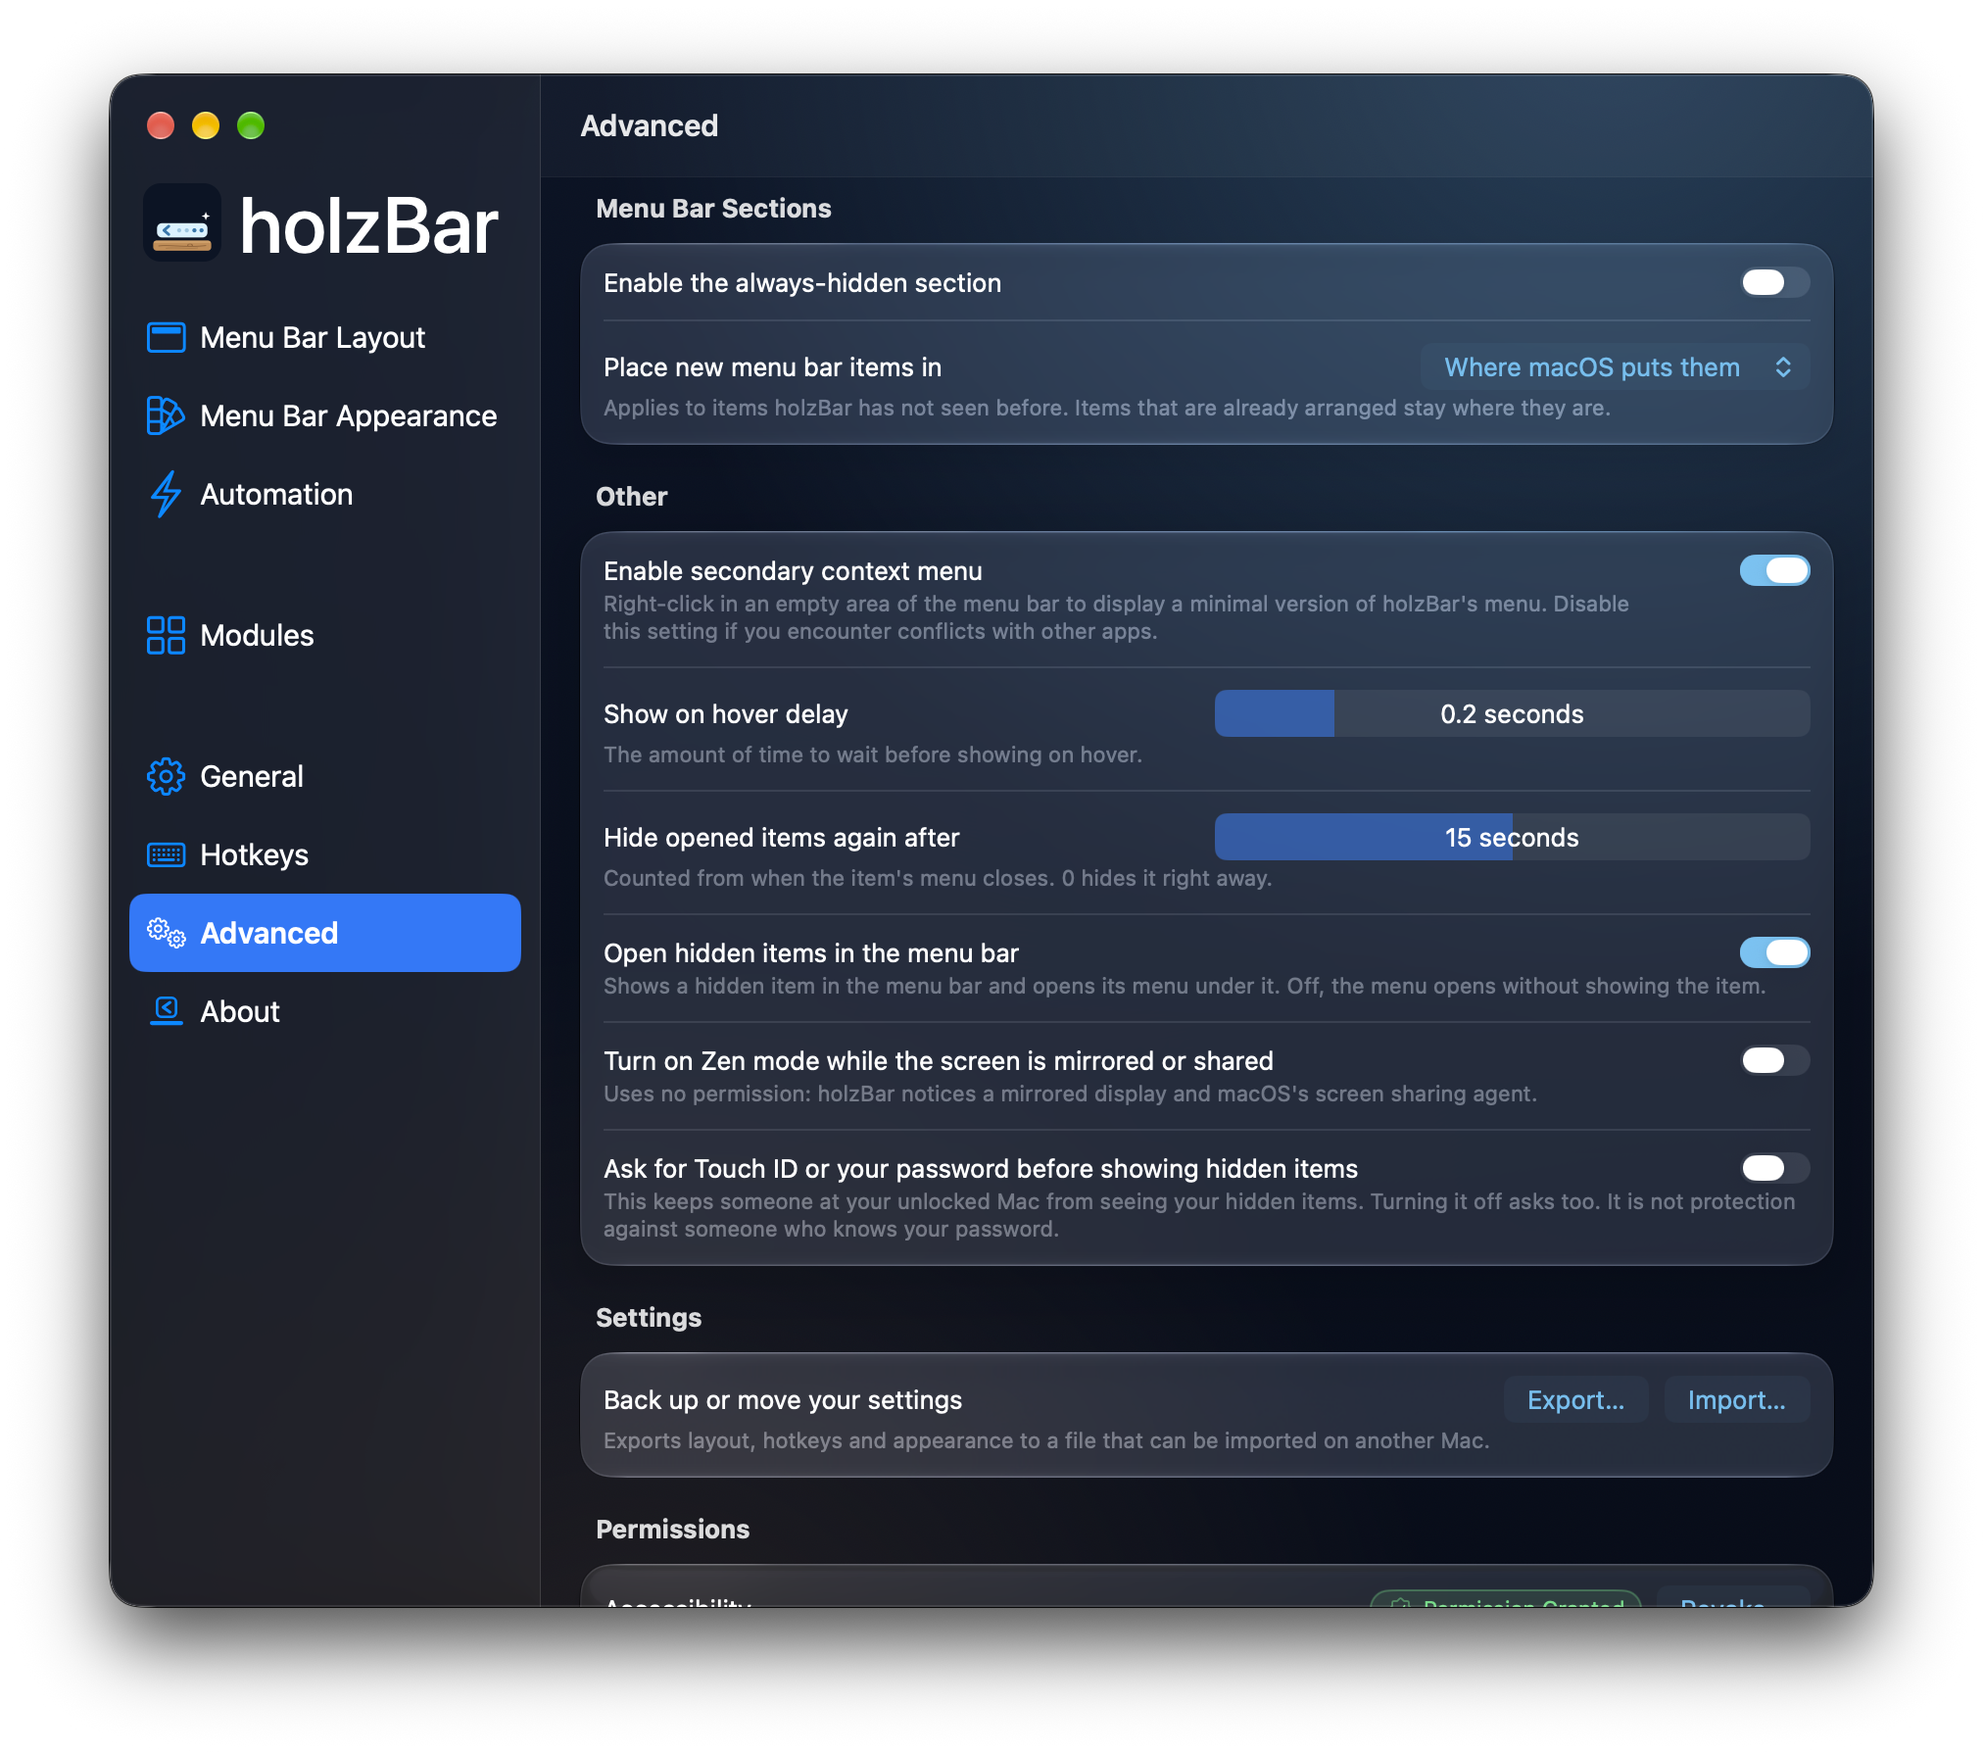
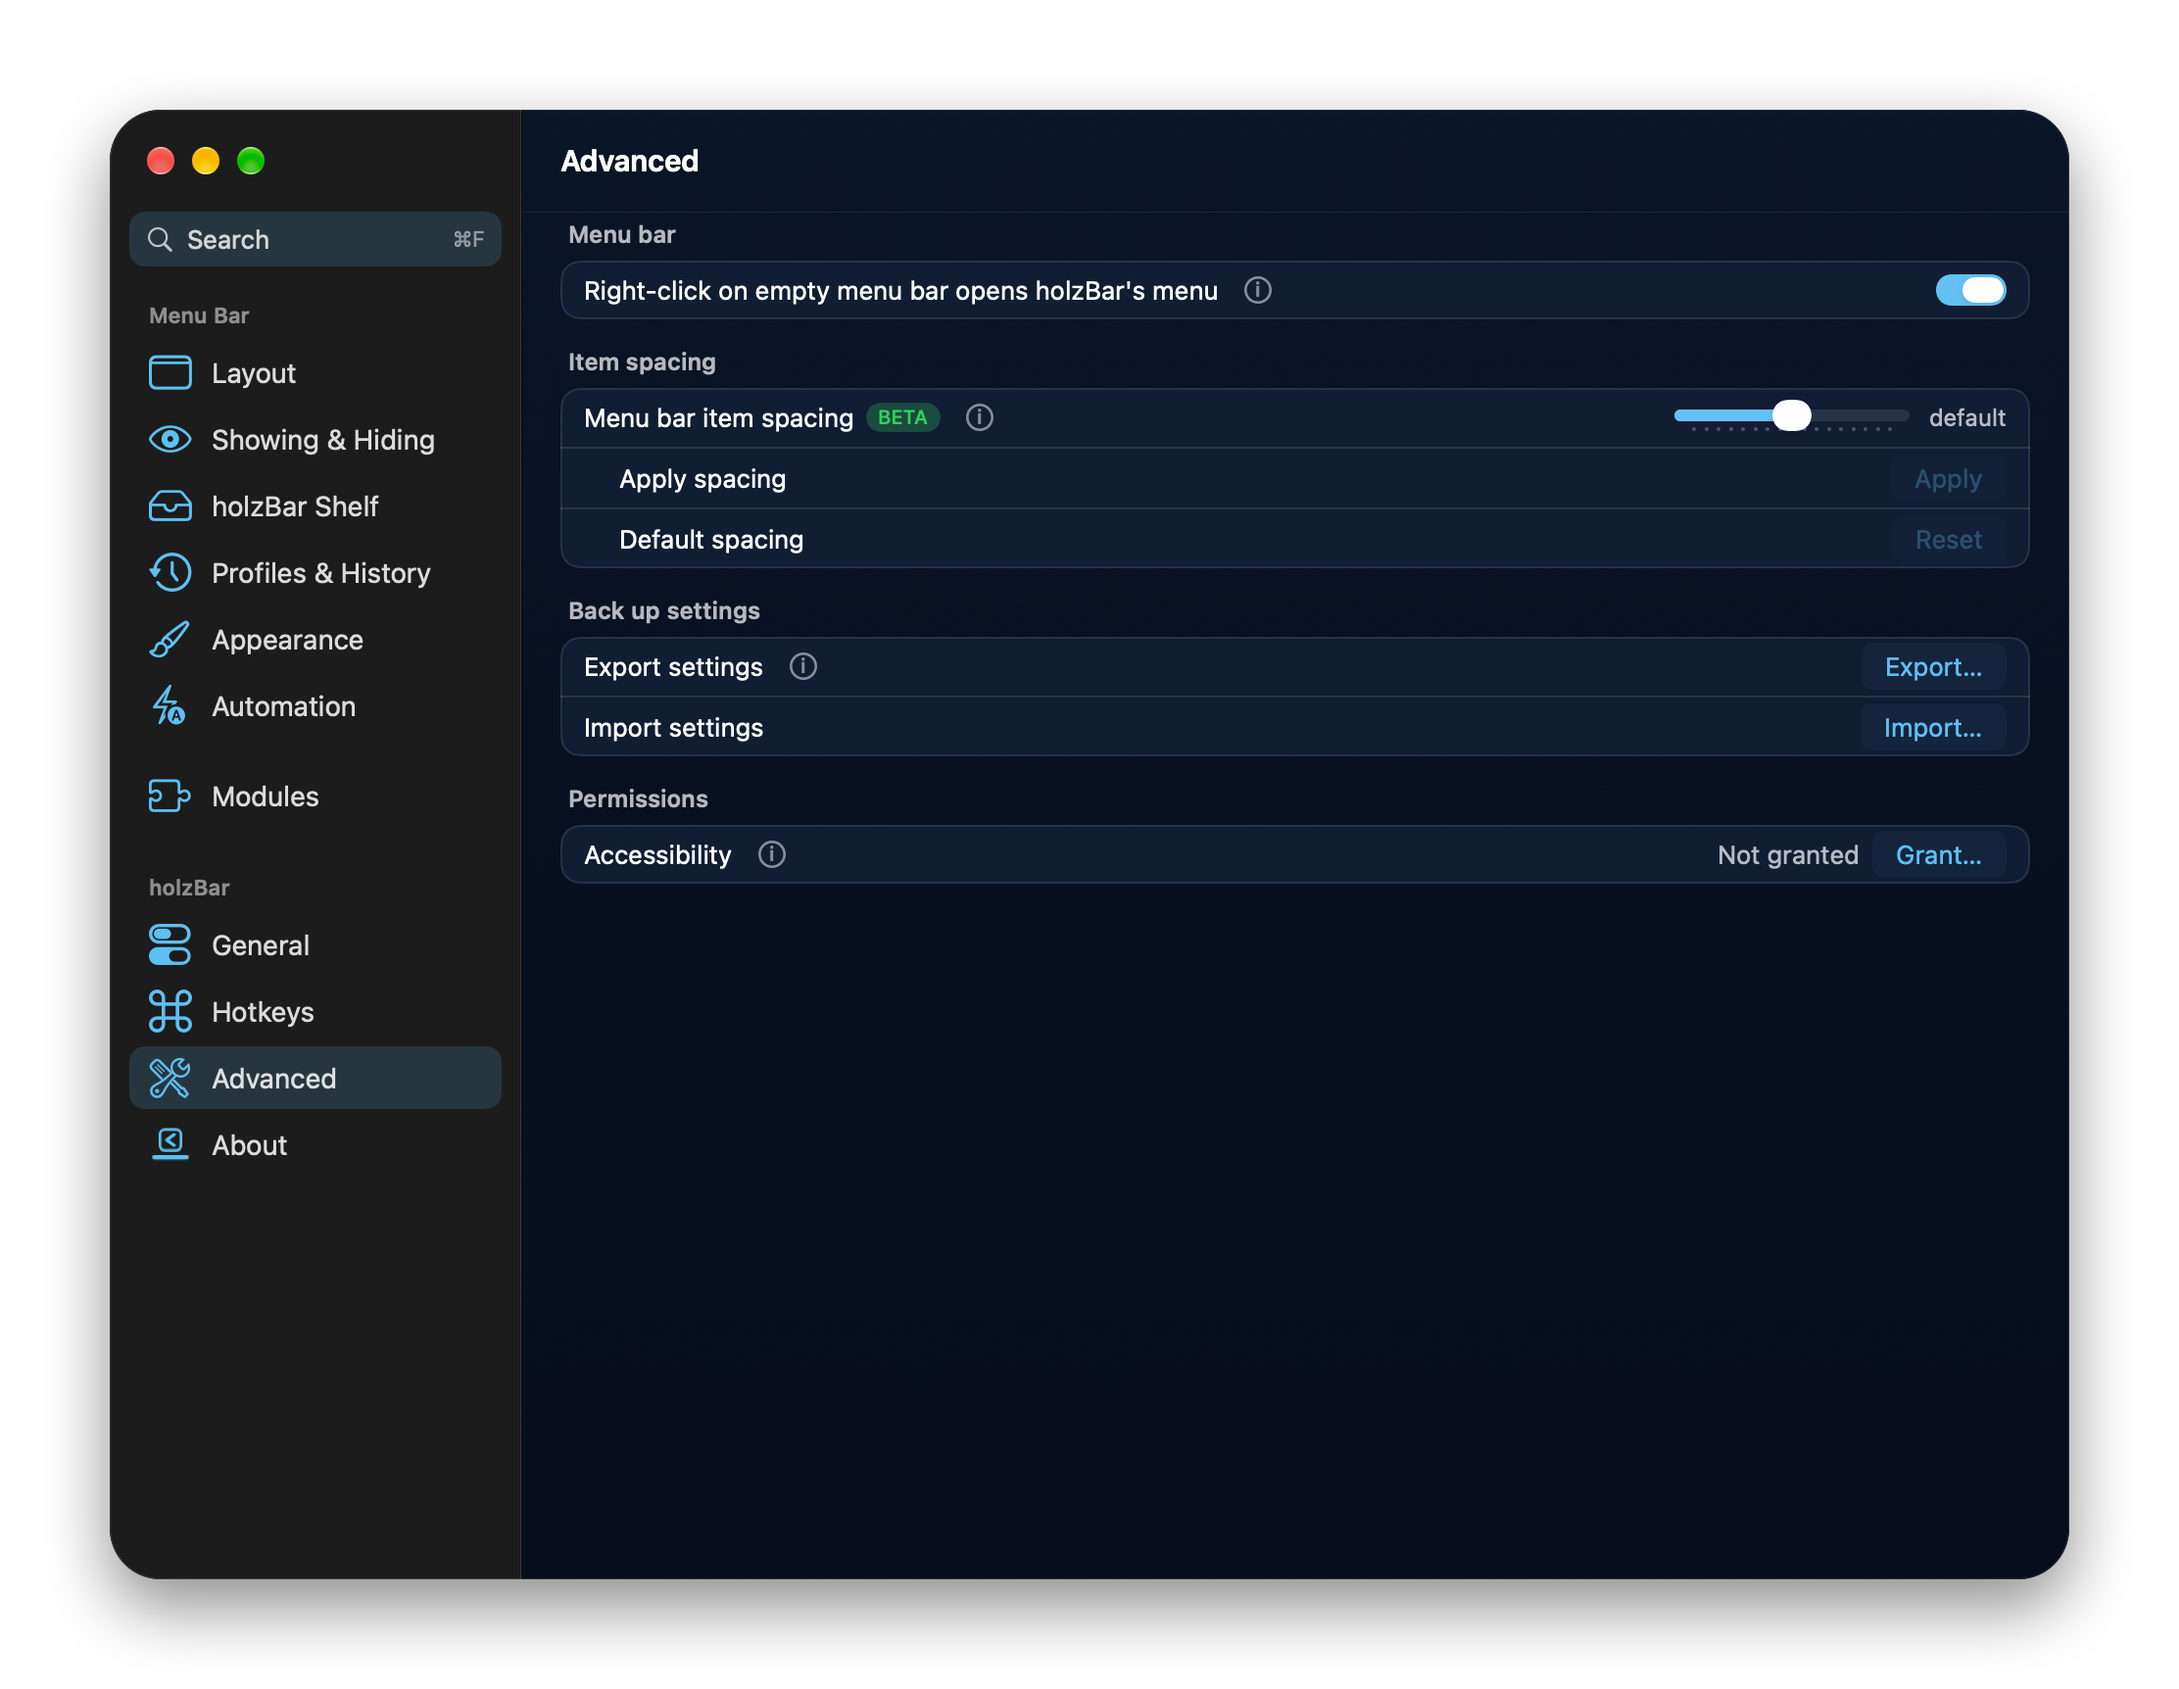
docs: new screenshots of the redesigned settings and hub
General, Showing & Hiding, Appearance, Hotkeys, Advanced, Automation,
Modules and Profiles & History as they look since 1.1.0, and the Display
controls module in the island hub. The pictures of panes that no longer
exist (General showing and rehiding, Layout further down) and the old
Display tab are gone; captions and alt texts describe what is shown.

Claude-Session: https://claude.ai/code/session_01LwGZpaAAVUWcNxkuCJHceB

diff --git a/docs/features.md b/docs/features.md
@@ -365,7 +365,7 @@ Screenshots of holzBar in dark mode.
 <td width="50%" valign="top"><b>Notch hub, Timers — presets, a typed length, a countdown or a stopwatch</b><br><img src="../Resources/Screenshots/hub-timers.jpg" alt="The Timers tab of the notch hub with the presets 1, 5, 10 and 25 minutes and 1 hour, the Length, Until and Stopwatch choices and a label field"></td>
 </tr>
 <tr>
-<td width="50%" valign="top"><b>Notch hub, Display — brightness and volume</b><br><img src="../Resources/Screenshots/hub-display.jpg" alt="The Display tab of the notch hub: a brightness slider for the built-in display, a display macOS cannot change from here, and the volume slider of the speakers"></td>
+<td width="50%" valign="top"><b>Notch hub, Display — brightness and volume</b><br><img src="../Resources/Screenshots/hub-display.png" alt="The Display controls module in the notch hub: a brightness slider for the built-in display and the volume of the Mac's speakers, with the round module buttons below"></td>
 <td width="50%" valign="top"><b>Modules — the notch hub, Timers, Calendar and Live activities</b><br><img src="../Resources/Screenshots/settings-modules-notch.jpg" alt="holzBar settings, Modules pane: the Notch hub with Open on hover, Show the hub on and a hotkey, Timers with a finish sound, Calendar with one switch per calendar, and Live activities"></td>
 </tr>
 <tr>
@@ -381,13 +381,12 @@ Screenshots of holzBar in dark mode.
 ### Menu bar and settings
 
 
-<p align="center"><img src="../Resources/Screenshots/settings-general.png" alt="holzBar settings, General pane: Launch at login, the menu bar icon choices and the holzBar Shelf with its style" width="760"></p>
+<p align="center"><img src="../Resources/Screenshots/settings-general.png" alt="holzBar settings, General pane: Launch at login, What's New after an update, the menu bar icon styles, the number of hidden items and the dot for the microphone or camera" width="760"></p>
 
 <p align="center"><img src="../Resources/Screenshots/settings-general-shelf.png" alt="holzBar settings, General pane, the holzBar Shelf: style, location, layout, find items by typing, applications that are not running, rearranging by dragging and the displays it is used on" width="760"></p>
 
-<p align="center"><img src="../Resources/Screenshots/settings-general-showing.png" alt="holzBar settings, General pane: items covered by the notch, showing hidden items on click, hover or scroll, the animation, opening Notification Center from the clock and per-display behaviour" width="760"></p>
+<p align="center"><img src="../Resources/Screenshots/settings-showing-hiding.png" alt="holzBar settings, Showing & Hiding pane: show on click, hover or scroll, open hidden items in the menu bar, automatic rehide with the Smart strategy, Zen mode, Touch ID and the animation styles Instant, Smooth and Fade" width="760"></p>
 
-<p align="center"><img src="../Resources/Screenshots/settings-general-rehiding.png" alt="holzBar settings, General pane: per-display behaviour, automatic rehide with the Smart strategy, menu bar item spacing and the camera and microphone indicator dot" width="760"></p>
 
 <table>
 <tr>
@@ -403,18 +402,18 @@ Screenshots of holzBar in dark mode.
 <table>
 <tr>
 <td width="50%" valign="top"><b>Layout</b> — drag items into sections, with profiles, groups and spacers<br><img src="../Resources/Screenshots/settings-layout.png" alt="holzBar settings, Layout pane: the Visible and Hidden sections with the menu bar items, Tidy Up, Usage Suggestions and the layout profiles"></td>
-<td width="50%" valign="top"><b>Appearance</b> — moods, tint, shadow, border, shapes, a black bar and rounded screen corners<br><img src="../Resources/Screenshots/settings-appearance.png" alt="holzBar settings, Appearance pane: Moods, dynamic appearance, Tint, Shadow, Border, Shape Kind, Black menu bar and Round the screen corners"></td>
+<td width="50%" valign="top"><b>Appearance</b> — moods, tint, shadow, border, shapes, a black bar and rounded screen corners<br><img src="../Resources/Screenshots/settings-appearance.png" alt="holzBar settings, Appearance pane: moods, the menu bar shape, light and dark, tint, shadow and border"></td>
 </tr>
 <tr>
-<td width="50%" valign="top"><b>Hotkeys</b> — a shortcut for every frequent action, profile and item<br><img src="../Resources/Screenshots/settings-hotkeys.png" alt="holzBar settings, Hotkeys pane: hotkeys for the hidden section, the search, opening an item by letter, the layout profile, the holzBar Shelf, app menus, auto-rehide and Zen mode, each with Record Hotkey"></td>
-<td width="50%" valign="top"><b>Advanced</b> — new items, delays, Zen mode, Touch ID lock and settings backup<br><img src="../Resources/Screenshots/settings-advanced.png" alt="holzBar settings, Advanced pane: where new items go, the secondary context menu, the hover delay, hiding opened items again after 15 seconds, opening hidden items in the menu bar, Zen mode while the screen is shared, Touch ID or password before showing hidden items, settings Export… and Import…, and the permissions"></td>
+<td width="50%" valign="top"><b>Hotkeys</b> — a shortcut for every frequent action, profile and item<br><img src="../Resources/Screenshots/settings-hotkeys.png" alt="holzBar settings, Hotkeys pane: hotkeys to show items, find items, single items, profiles, modes and the Notch hub"></td>
+<td width="50%" valign="top"><b>Advanced</b> — right-click, item spacing <sub>BETA</sub>, settings backup and permissions<br><img src="../Resources/Screenshots/settings-advanced.png" alt="holzBar settings, Advanced pane: right-click on the empty menu bar, menu bar item spacing, back up settings and permissions"></td>
 </tr>
 <tr>
-<td width="50%" valign="top"><b>Layout, further down</b> — usage suggestions, profiles, groups, spacers and the layout history<br><img src="../Resources/Screenshots/settings-layout-more.png" alt="holzBar settings, Layout pane further down: Usage Suggestions, the home profile with Apply, Bind, Import Profile and Save Current Layout, Groups with New Group, Spacers, and Layout History with 8 snapshots"></td>
-<td width="50%" valign="top"><b>Automation</b> — rules, scripts and profile hooks<br><img src="../Resources/Screenshots/settings-automation.png" alt="holzBar settings, Automation pane: the Scripts folder with Choose Folder and Open Scripts Folder, profile hooks, and Add Rule"></td>
+<td width="50%" valign="top"><b>Profiles &amp; History</b> — profiles, groups, spacers and the layout history<br><img src="../Resources/Screenshots/settings-profiles-history.png" alt="holzBar settings, Profiles & History pane: profiles, groups, spacers and the layout history with its snapshots"></td>
+<td width="50%" valign="top"><b>Automation</b> — rules, scripts and profile hooks<br><img src="../Resources/Screenshots/settings-automation.png" alt="holzBar settings, Automation pane: rules, the Scripts folder, the scripts of the rules, profile hooks and where rules are stored"></td>
 </tr>
 <tr>
-<td width="50%" valign="top"><b>Modules</b> — widgets and dragging in the menu bar, each with its own switch<br><img src="../Resources/Screenshots/settings-modules.png" alt="holzBar settings, Modules pane: Widgets switched on with a CPU load and a free disk space widget, and Drag in the Menu Bar switched off"></td>
+<td width="50%" valign="top"><b>Modules</b> — every module with its own switch<br><img src="../Resources/Screenshots/settings-modules.png" alt="holzBar settings, Modules pane: Widgets, Drag in the Menu Bar, Apple Items and Notification Center from the clock, then the Notch hub and its eight modules, each with its own switch"></td>
 <td width="50%" valign="top"><b>Permissions</b> — what holzBar has, with Revoke<br><img src="../Resources/Screenshots/settings-advanced-permissions.png" alt="holzBar settings, Advanced pane, the end: Back up or move your settings with Export and Import, and the permissions Accessibility and Screen Recording, each shown as Permission Granted with a Revoke button"></td>
 </tr>
 <tr>

diff --git a/README.md b/README.md
@@ -43,7 +43,7 @@ If you looked for an Ice fork that runs on macOS 27, or a free Bartender alterna
 <table>
 <tr>
 <td width="50%" valign="top"><b>Layout</b>: drag items into sections<br><img src="Resources/Screenshots/settings-layout.png" alt="holzBar settings, Layout: drag menu bar icons into the visible, hidden and always-hidden sections"></td>
-<td width="50%" valign="top"><b>Appearance</b>: moods, tint, border, shapes, a black bar<br><img src="Resources/Screenshots/settings-appearance.png" alt="holzBar settings, Appearance: tint, shadow, border, shapes and rounded screen corners"></td>
+<td width="50%" valign="top"><b>Appearance</b>: moods, tint, border, shapes, a black bar<br><img src="Resources/Screenshots/settings-appearance.png" alt="holzBar settings, Appearance pane: moods, the menu bar shape, light and dark, tint, shadow and border"></td>
 </tr>
 </table>
 
